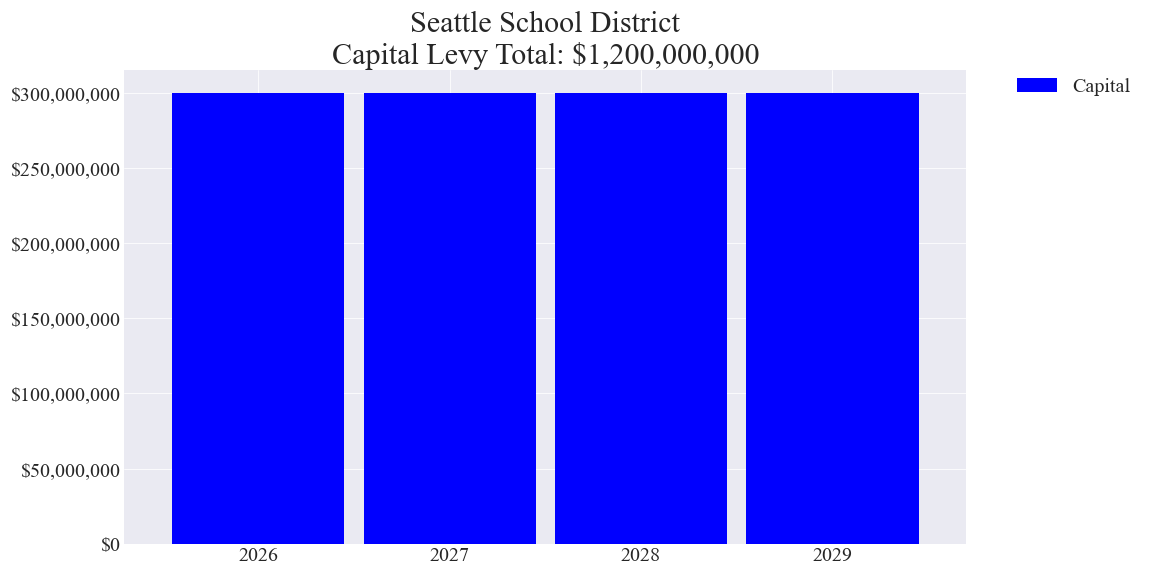
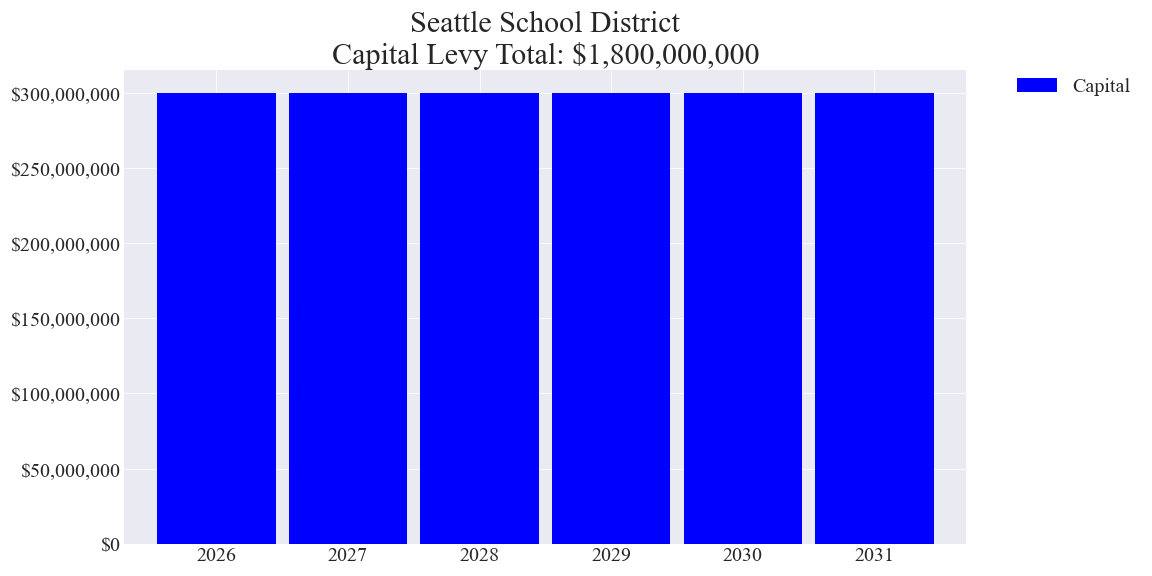
Updated elec 20250211
Corrected:
Seattle SD cap levy

diff --git a/_includes/cost_estimates/20250211/SeattleCapitalLevyTable_20250211.html b/_includes/cost_estimates/20250211/SeattleCapitalLevyTable_20250211.html
@@ -72,6 +72,8 @@ table, th, td {
 			['2027', 300000000, 299686617516, 0.0, 0, 0, 0.0, 0, 0, 0, 0.0, 0.0, 0],
 			['2028', 300000000, 299686617516, 0.0, 0, 0, 0.0, 0, 0, 0, 0.0, 0.0, 0],
 			['2029', 300000000, 299686617516, 0.0, 0, 0, 0.0, 0, 0, 0, 0.0, 0.0, 0],
+			['2030', 300000000, 299686617516, 0.0, 0, 0, 0.0, 0, 0, 0, 0.0, 0.0, 0],
+			['2031', 300000000, 299686617516, 0.0, 0, 0, 0.0, 0, 0, 0, 0.0, 0.0, 0],
 
 		]);
 		

diff --git a/_includes/cost_estimates/20250211/Seattle_Capital_20250211_Enhanced.html b/_includes/cost_estimates/20250211/Seattle_Capital_20250211_Enhanced.html
@@ -37,6 +37,8 @@
 			['2027', 300000000],
 			['2028', 300000000],
 			['2029', 300000000],
+			['2030', 300000000],
+			['2031', 300000000],
 
 		]);
 
